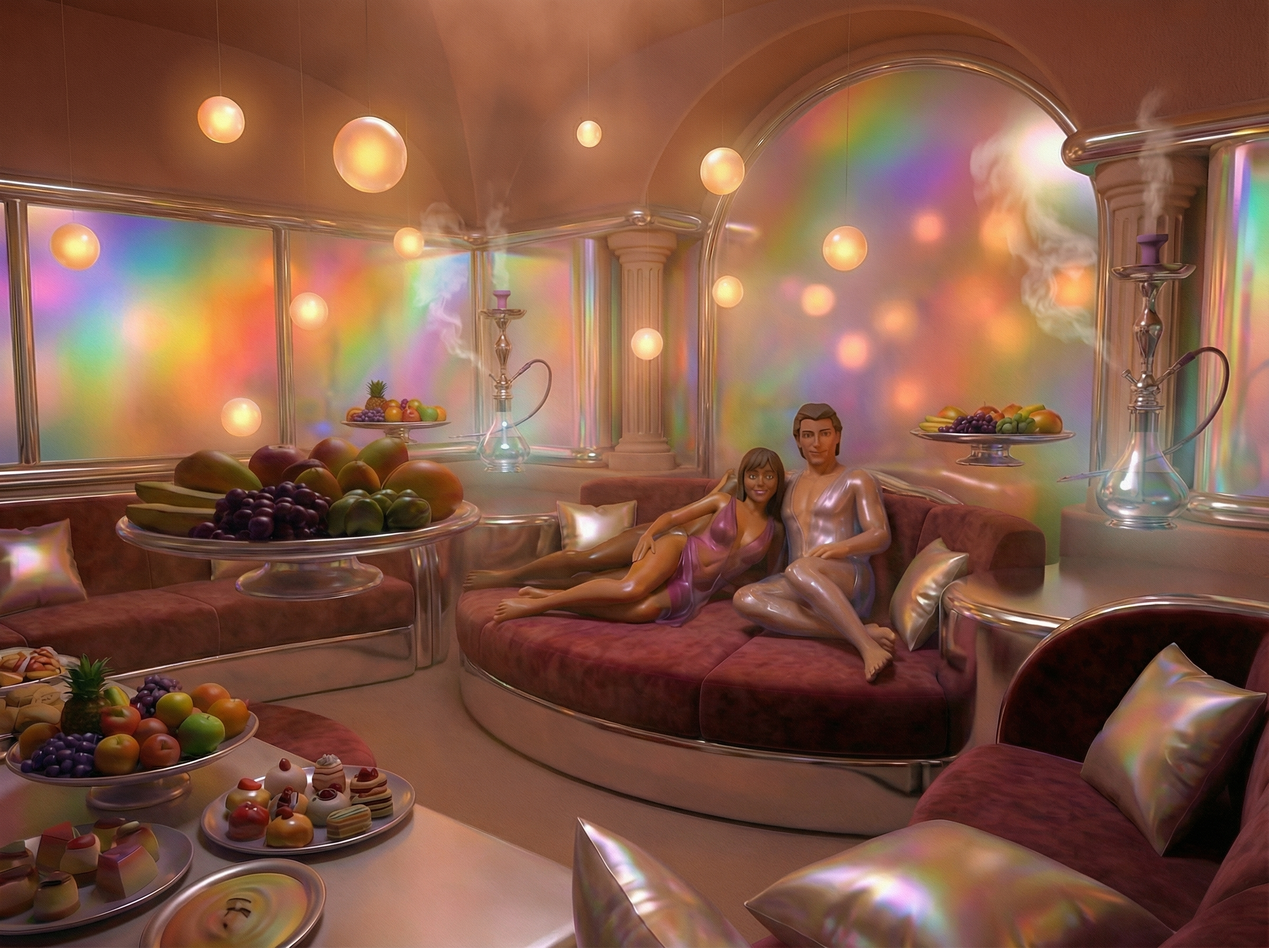
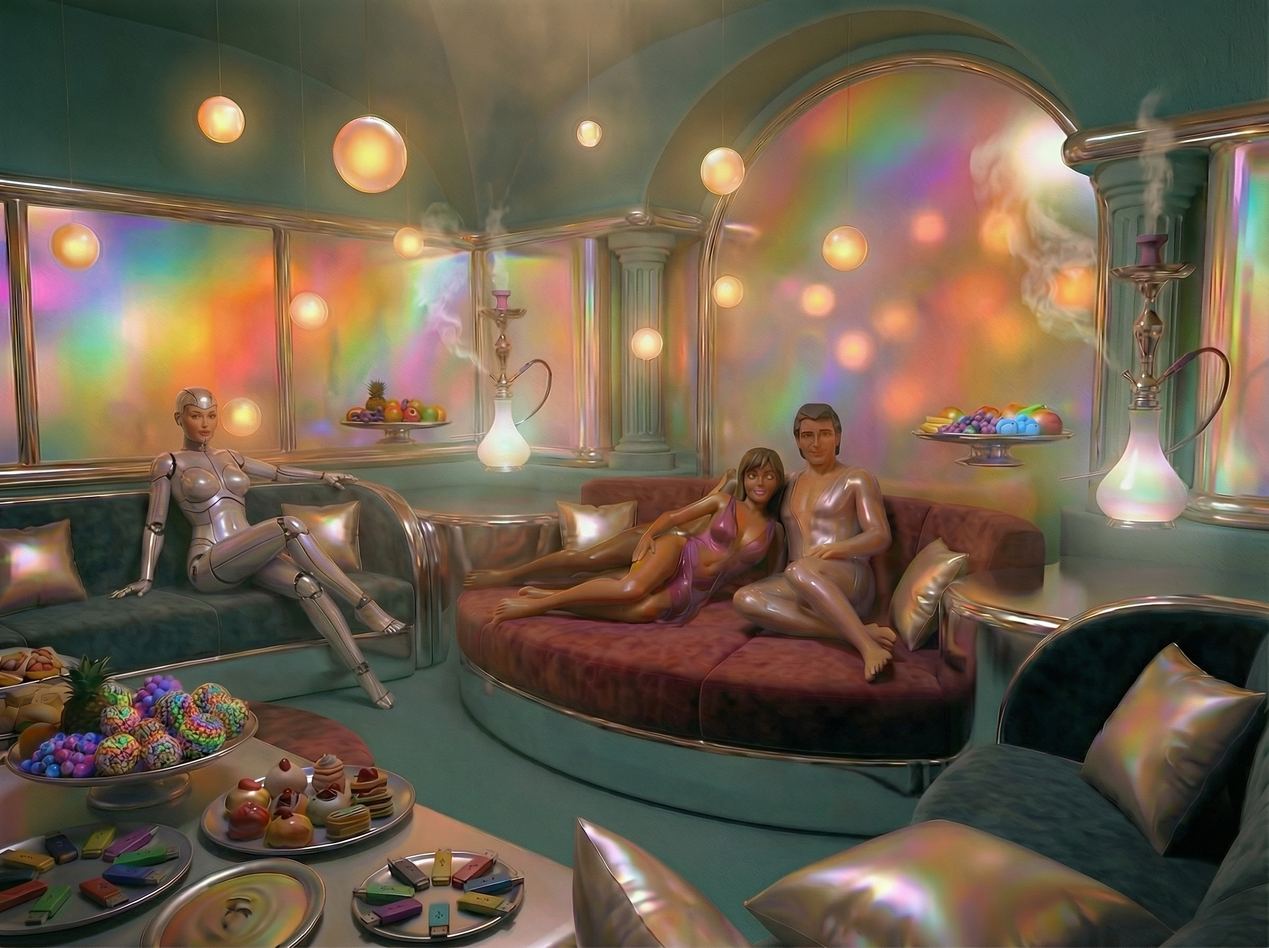
Remove elitist_populist axis, expand dionysus scene
- Drop elitist_populist axis (7 axes now, 128 types)
- Update seed phrase encoding: 28 bits + 5 padding
- Update all axis arrays and constellation chart
- Expand dionysus scene with more anthro_xeno choices
- Update dionysus background image

diff --git a/src/lib/seedPhrase.ts b/src/lib/seedPhrase.ts
@@ -1,10 +1,9 @@
 import { seedWords } from './wordlists/seedWords';
 
-// 8 axes, each 4 bits (0-15), total 32 bits
-// 3 words × 11 bits = 33 bits (1 bit padding)
+// 7 axes, each 4 bits (0-15), total 28 bits
+// 3 words × 11 bits = 33 bits (5 bits padding)
 
 export type AxisValues = {
-  elitist_populist: number;
   legible_illegible: number;
   sovereign_symphonic: number;
   anthro_xeno: number;
@@ -15,7 +14,6 @@ export type AxisValues = {
 };
 
 const AXIS_ORDER: (keyof AxisValues)[] = [
-  'elitist_populist',
   'legible_illegible',
   'sovereign_symphonic',
   'anthro_xeno',
@@ -26,18 +24,18 @@ const AXIS_ORDER: (keyof AxisValues)[] = [
 ];
 
 /**
- * Encode 8 axis values (4 bits each) into a 3-word seed phrase.
+ * Encode 7 axis values (4 bits each) into a 3-word seed phrase.
  */
 export function encode(axes: AxisValues): string {
-  // Pack 8 × 4-bit values into 32 bits
+  // Pack 7 × 4-bit values into 28 bits
   let bits = 0;
   for (const axis of AXIS_ORDER) {
     const value = Math.max(0, Math.min(15, axes[axis])); // clamp to 0-15
     bits = (bits << 4) | value;
   }
 
-  // Add 1 bit padding to make 33 bits (divisible into 3 × 11)
-  bits = bits << 1;
+  // Add 5 bits padding to make 33 bits (divisible into 3 × 11)
+  bits = bits << 5;
 
   // Extract three 11-bit indices
   const word3Index = bits & 0x7ff;
@@ -60,12 +58,12 @@ export function decode(phrase: string): AxisValues | null {
   // Reconstruct 33 bits from three 11-bit indices
   let bits = (indices[0] << 22) | (indices[1] << 11) | indices[2];
 
-  // Remove 1-bit padding
-  bits = bits >> 1;
+  // Remove 5-bit padding
+  bits = bits >> 5;
 
-  // Extract 8 × 4-bit values (in reverse order)
+  // Extract 7 × 4-bit values (in reverse order)
   const values: number[] = [];
-  for (let i = 0; i < 8; i++) {
+  for (let i = 0; i < 7; i++) {
     values.unshift(bits & 0xf);
     bits = bits >> 4;
   }

diff --git a/src/components/ConstellationChart.tsx b/src/components/ConstellationChart.tsx
@@ -8,7 +8,6 @@ interface ConstellationChartProps {
 
 // Order of axes around the circle (clockwise from top)
 const AXIS_ORDER: Array<keyof AxisValues> = [
-  "elitist_populist",
   "legible_illegible",
   "sovereign_symphonic",
   "anthro_xeno",
@@ -19,17 +18,18 @@ const AXIS_ORDER: Array<keyof AxisValues> = [
 ];
 
 /**
- * Plots 8 personality axis values as dots on a circular chart.
+ * Plots 7 personality axis values as dots on a circular chart.
  * Value 0 = center, value 15 = edge.
  */
 function ConstellationChart({ values, size = 200, className }: ConstellationChartProps) {
   const center = 50; // Center of viewBox
   const maxRadius = 40; // Max distance from center to edge
+  const angleStep = 360 / AXIS_ORDER.length; // Degrees per axis
 
   // Convert axis value + index to x,y coordinates
   const getPointCoords = (value: number, index: number) => {
     // Angle in radians, starting from top (-90°), going clockwise
-    const angleRadians = ((index * 45 - 90) * Math.PI) / 180;
+    const angleRadians = ((index * angleStep - 90) * Math.PI) / 180;
     // Radius scales with value: 0 = center, 15 = maxRadius
     const radius = (Math.max(0, Math.min(15, value)) / 15) * maxRadius;
     return {

diff --git a/src/components/AllAxesDisplay.tsx b/src/components/AllAxesDisplay.tsx
@@ -10,7 +10,6 @@ const AXIS_CONFIG: Array<{
   leftLabel: string;
   rightLabel: string;
 }> = [
-  { key: "elitist_populist", leftLabel: "Elitist", rightLabel: "Populist" },
   { key: "legible_illegible", leftLabel: "Legible", rightLabel: "Illegible" },
   { key: "sovereign_symphonic", leftLabel: "Sovereign", rightLabel: "Symphonic" },
   { key: "anthro_xeno", leftLabel: "Anthro", rightLabel: "Xeno" },
@@ -25,7 +24,7 @@ interface AllAxesDisplayProps {
 }
 
 /**
- * Renders all 8 personality axes with their current values.
+ * Renders all 7 personality axes with their current values.
  */
 function AllAxesDisplay({ values }: AllAxesDisplayProps) {
   return (

diff --git a/src/lib/constellation.ts b/src/lib/constellation.ts
@@ -61,8 +61,7 @@ export async function generateConstellation(
 function buildPrompt(values: AxisValues): string {
   return `You are creating a mythic constellation name and brief origin myth for a personality test result.
 
-The person's 8 axis values (0=left pole, 15=right pole, 8=center):
-- Elitist/Populist: ${values.elitist_populist}
+The person's 7 axis values (0=left pole, 15=right pole, 8=center):
 - Legible/Illegible: ${values.legible_illegible}
 - Sovereign/Symphonic: ${values.sovereign_symphonic}
 - Anthro/Xeno: ${values.anthro_xeno}

diff --git a/src/App.tsx b/src/App.tsx
@@ -20,9 +20,8 @@ const PHASE_LABELS: Record<string, string> = {
   "old-age": "Old Age",
 };
 
-// Ink variable names for the 8 personality axes
+// Ink variable names for the 7 personality axes
 const AXIS_NAMES: Array<keyof AxisValues> = [
-  "elitist_populist",
   "legible_illegible",
   "sovereign_symphonic",
   "anthro_xeno",

diff --git a/revision-notes.md b/revision-notes.md
@@ -149,9 +149,10 @@ Look for opportunities to add illegible options throughout. "Illegible" in the p
 - ~~Structure is good, choices need more personality~~ ✓
 
 ### Dionysian Path
-- "Does the stripper like me" beat too on-the-nose — may cut or rework
-- "What if we did something different" has potential
-- **Flag for second pass:** rewrite for humor without changing structure
+- ~~"Does the stripper like me" beat too on-the-nose — may cut or rework~~ ✓ (replaced with human/robot/dolphin/cuddle puddle/military choices)
+- ~~"What if we did something different" has potential~~ ✓ (became cuddle puddle option)
+- ~~**Flag for second pass:** rewrite for humor without changing structure~~ ✓
+- ~~**Image:** regenerated with robot, neon fruit, USB sticks, futuristic hookahs~~ ✓
 
 ### Apollonian Path
 - **Image note:** should look like a hamster wheel
